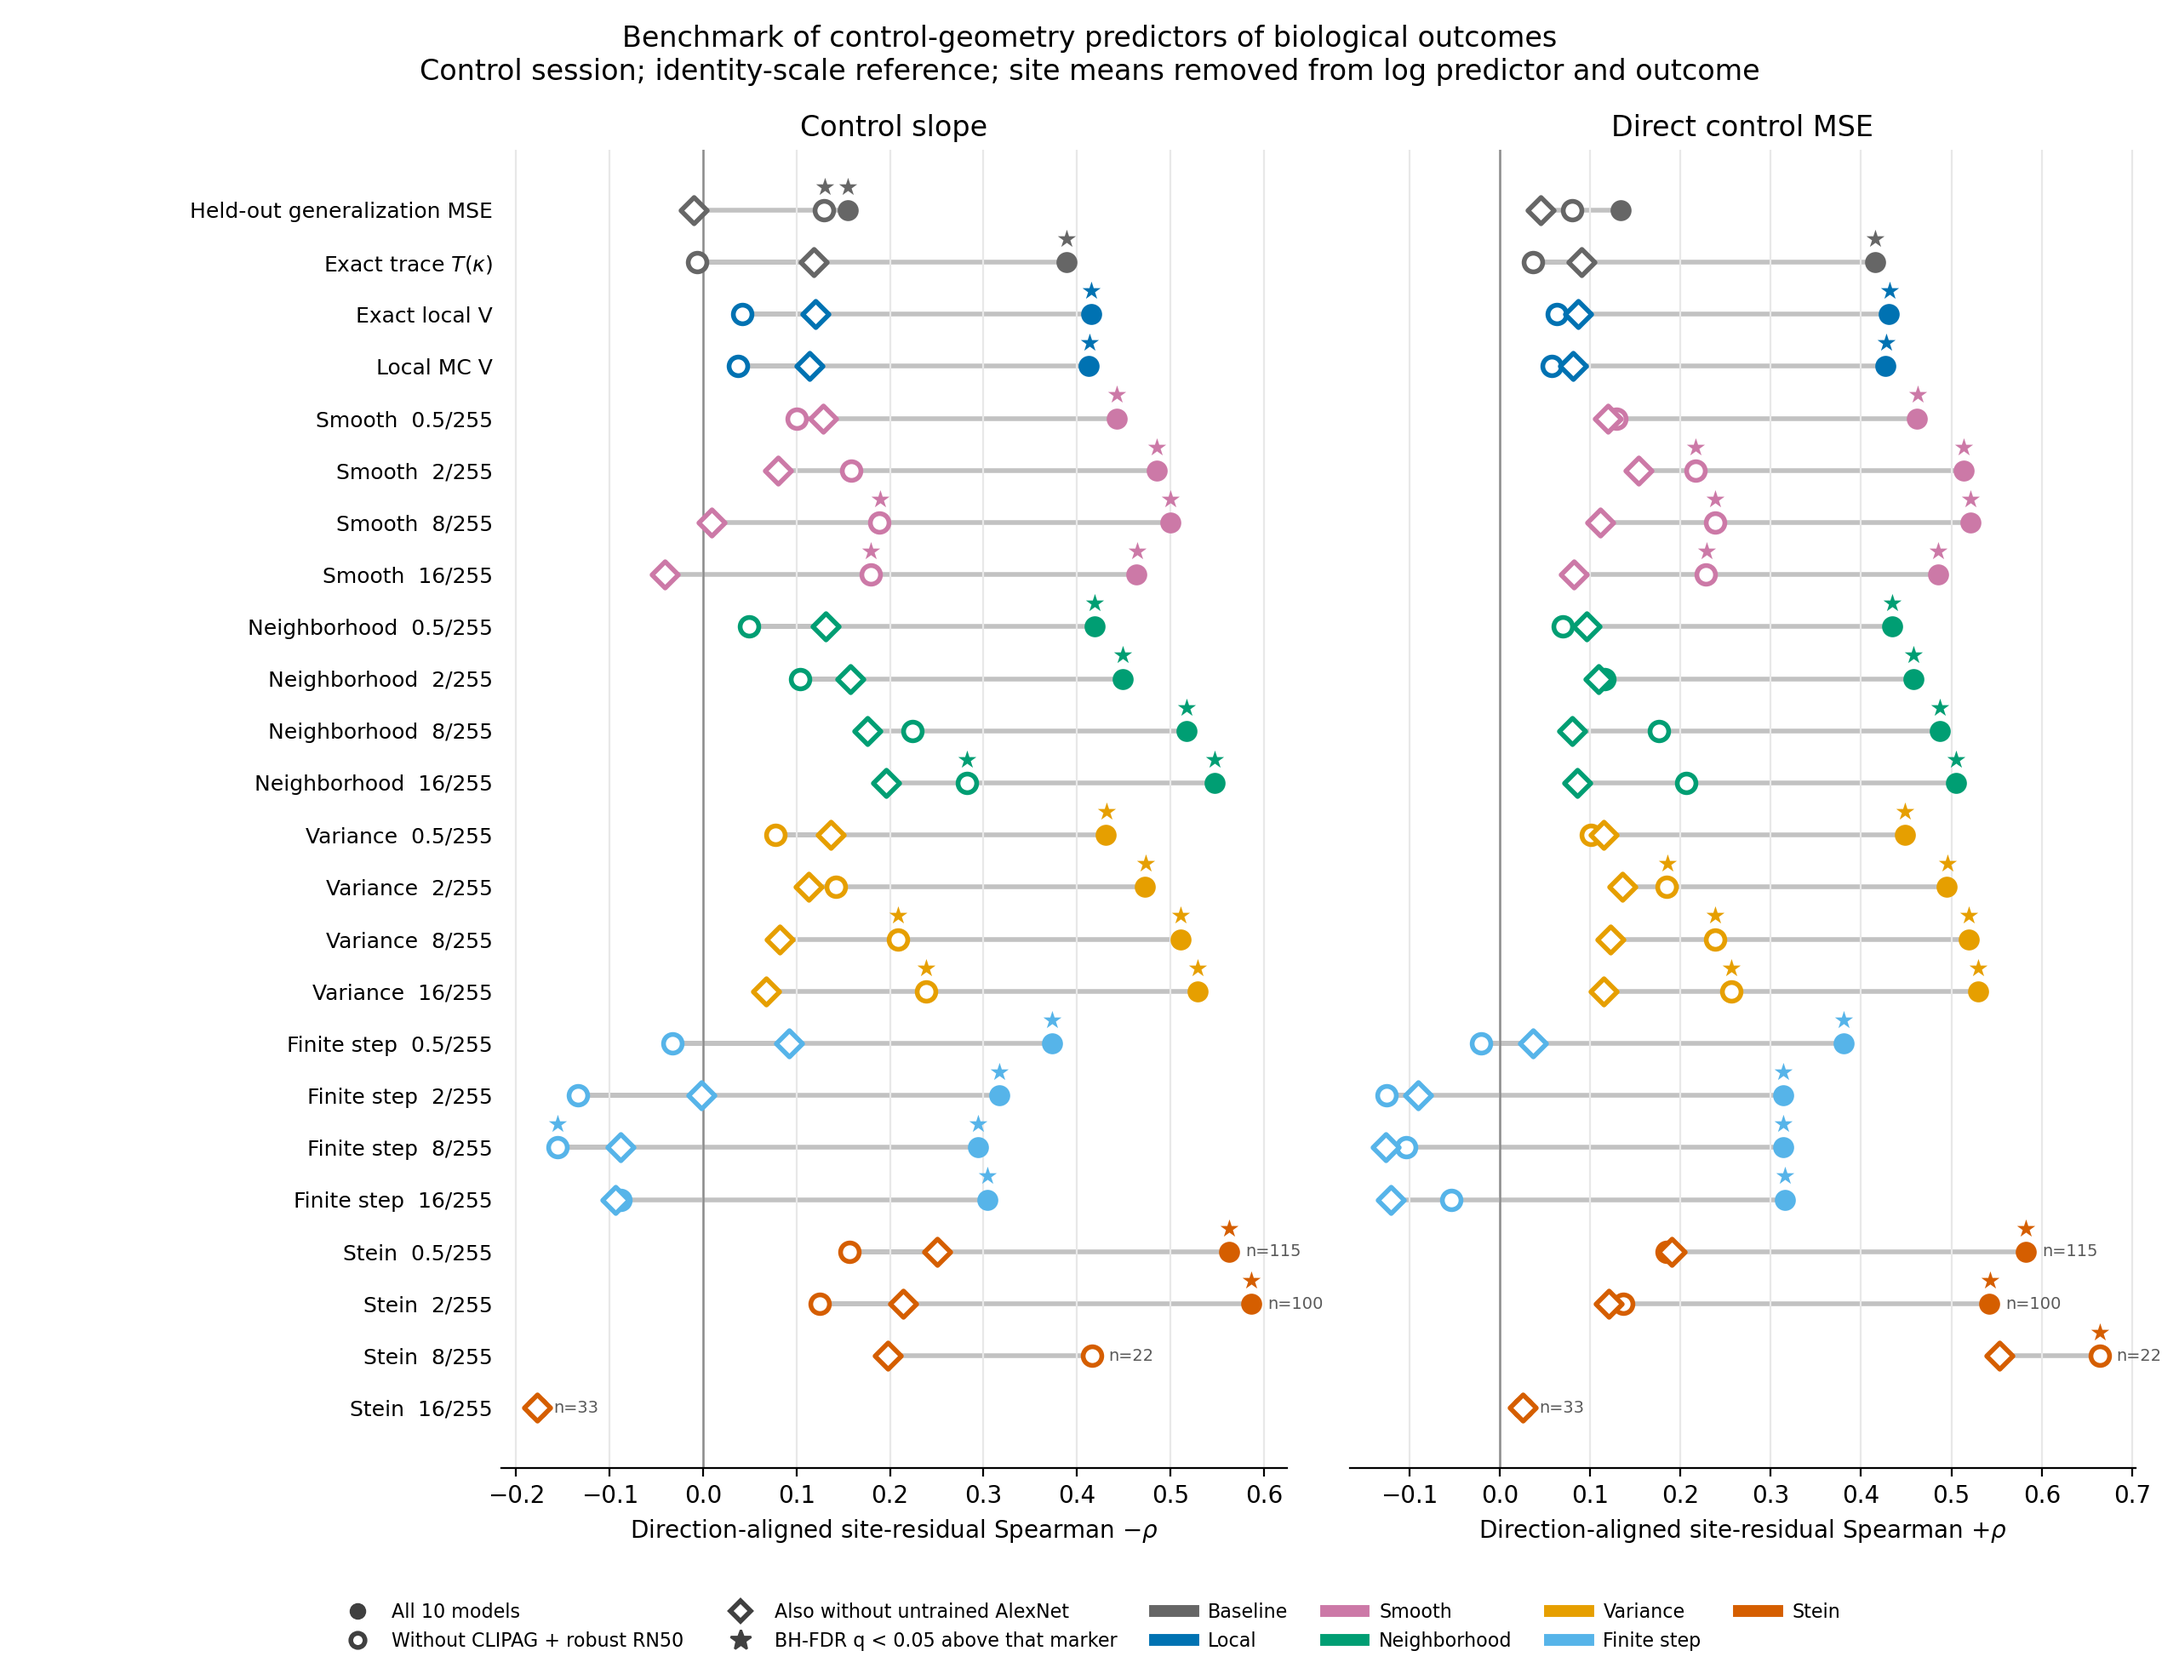
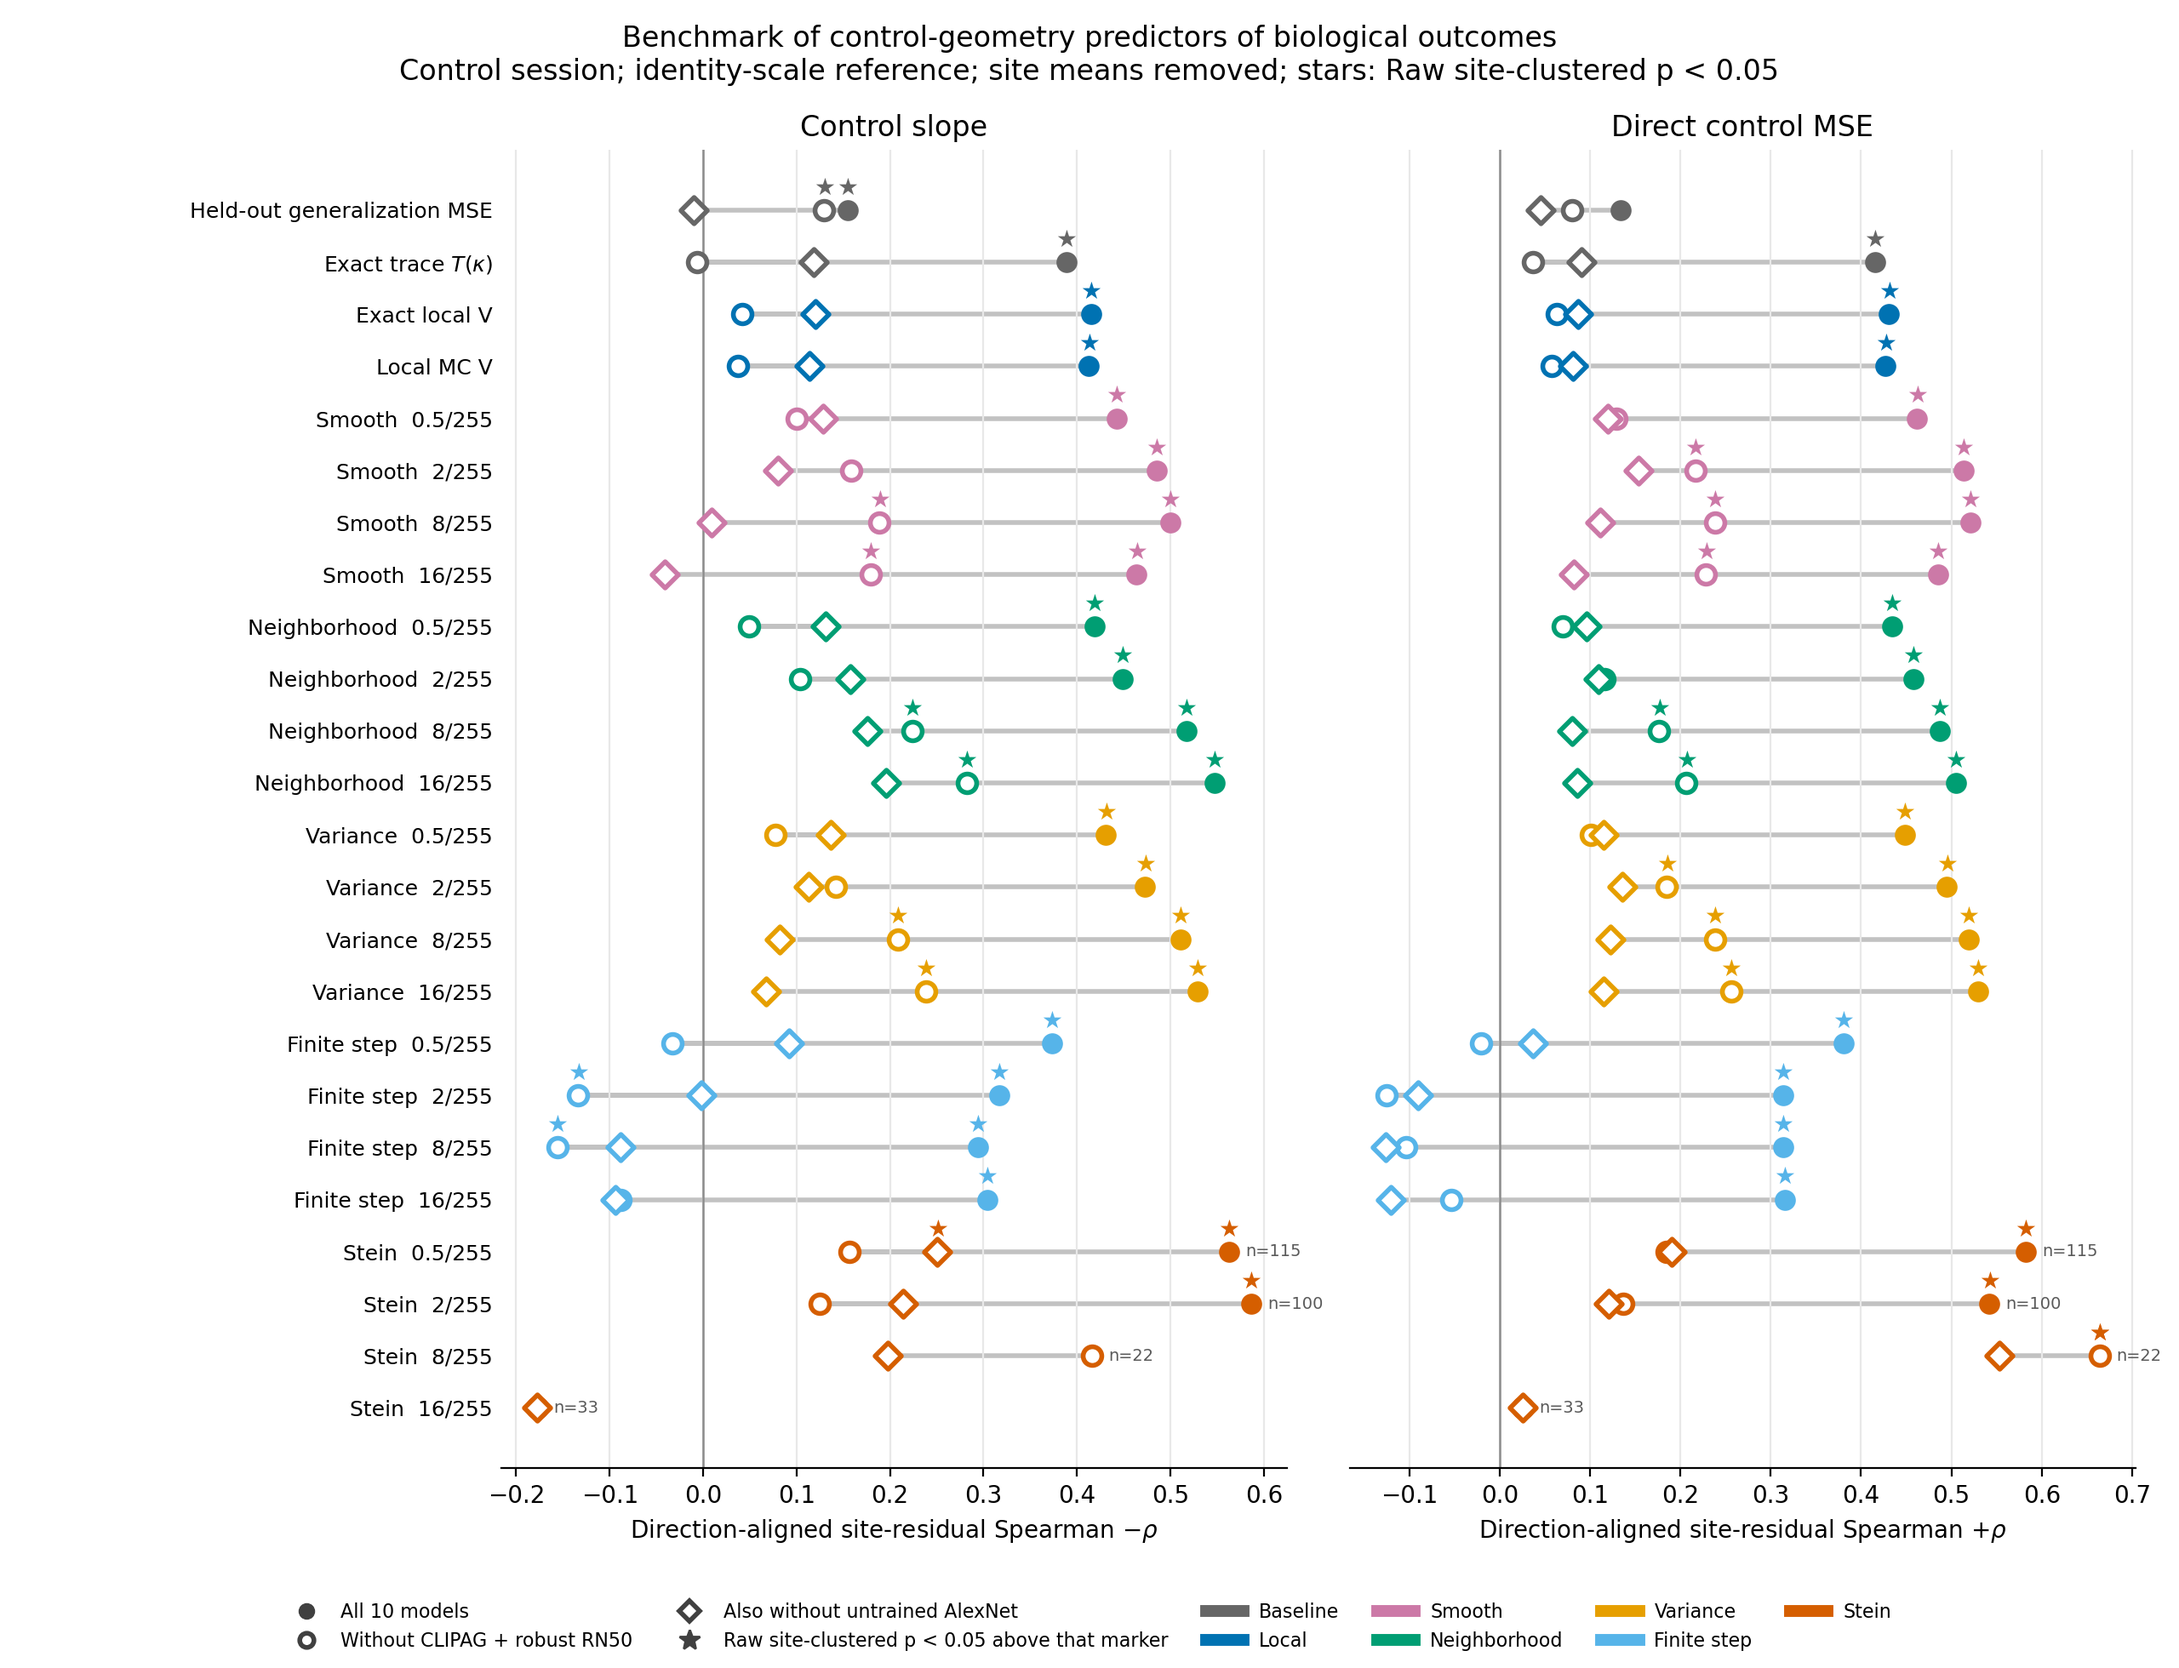
Separate raw-p and FDR benchmark figures

Changed region(s): [[0.125, 0.9648, 0.8438, 0.9959], [0.1875, 0.0311, 0.8125, 0.0622]]

diff --git a/explorations/nonlinear_control/analyze_site_centered_effects.py b/explorations/nonlinear_control/analyze_site_centered_effects.py
@@ -146,7 +146,11 @@ def level_plot(results,method,filename):
     fig.tight_layout();fig.savefig(FIGURE/filename,dpi=180);plt.close(fig)
 
 
-def predictor_benchmark_plot(results,endpoint,filename):
+def predictor_benchmark_plot(results,endpoint,filename,significance='raw'):
+    assert significance in {'raw','fdr'}
+    significance_column='cluster_p' if significance=='raw' else 'cluster_q_bh'
+    significance_label=('Raw site-clustered p < 0.05' if significance=='raw'
+                        else 'BH-FDR q < 0.05 across 24 predictors')
     d=results[results.endpoint==endpoint].copy()
     meta=(d[['predictor_id','label','group','display_order']].drop_duplicates()
           .sort_values('display_order'))
@@ -175,7 +179,7 @@ def predictor_benchmark_plot(results,endpoint,filename):
             # BH correction within this endpoint/outcome/subset panel.
             for xvalue,subset in [(xa,'all_models'),(xr,'without_robust'),
                                   (xt,'without_robust_and_untrained')]:
-                if pair.loc[subset,'cluster_q_bh'] < .05:
+                if pair.loc[subset,significance_column] < .05:
                     ax.text(xvalue,yi+.20,'★',color=color,ha='center',va='bottom',
                             fontsize=10,zorder=6)
             conventional=pair.loc['without_robust_and_untrained']
@@ -195,14 +199,14 @@ def predictor_benchmark_plot(results,endpoint,filename):
              plt.Line2D([],[],marker='D',linestyle='',markerfacecolor='white',markeredgewidth=2,
                         color='.25',label='Also without untrained AlexNet'),
              plt.Line2D([],[],marker='*',linestyle='',color='.25',markersize=9,
-                        label='BH-FDR q < 0.05 above that marker')]
+                        label=significance_label+' above that marker')]
     group_handles=[plt.Line2D([],[],color=METHOD_COLORS[g],lw=5,label=l) for g,l in
                    [('baseline','Baseline'),('local','Local'),('smooth','Smooth'),
                     ('neighborhood','Neighborhood'),('variance','Variance'),
                     ('step','Finite step'),('stein','Stein')]]
     fig.legend(handles=handles+group_handles,ncol=6,loc='lower center',frameon=False,fontsize=8)
     fig.suptitle('Benchmark of control-geometry predictors of biological outcomes\n'
-                 f'{d.endpoint_label.iloc[0]}; site means removed from log predictor and outcome',y=.985)
+                 f'{d.endpoint_label.iloc[0]}; site means removed; stars: {significance_label}',y=.985)
     fig.subplots_adjust(left=.23,right=.98,top=.91,bottom=.12,wspace=.08)
     fig.savefig(FIGURE/filename,dpi=200)
     plt.close(fig)
@@ -245,11 +249,14 @@ def main():
     benchmark=build_benchmark_table(data)
     benchmark.to_csv(TABLE/'predictor_benchmark_site_centered.csv',index=False)
     predictor_benchmark_plot(benchmark,'control_session_anchor_affine',
-                             'site_centered_predictor_benchmark_control_session.png')
+                             'site_centered_predictor_benchmark_control_session.png',significance='raw')
+    predictor_benchmark_plot(benchmark,'control_session_anchor_affine',
+                             'site_centered_predictor_benchmark_control_session_fdr.png',significance='fdr')
     predictor_benchmark_plot(benchmark,'control_session_identity_reference',
-                             'site_centered_predictor_benchmark_control_session_identity_reference.png')
+                             'site_centered_predictor_benchmark_control_session_identity_reference.png',
+                             significance='raw')
     predictor_benchmark_plot(benchmark,'encoding_session',
-                             'site_centered_predictor_benchmark_encoding_session.png')
+                             'site_centered_predictor_benchmark_encoding_session.png',significance='raw')
     print(results[(results.subset=='without_robust')&(results.method=='smooth')&
                   results.outcome.isin(['control_slope','control_mse'])].to_string(index=False))
 

diff --git a/tables/nonlinear_control/biological_validation/PREDICTOR_BENCHMARK.md b/tables/nonlinear_control/biological_validation/PREDICTOR_BENCHMARK.md
@@ -30,9 +30,11 @@ Each endpoint benchmark contains 24 predictors:
 The figures show Spearman correlation because model rankings are the primary
 question and the predictors span very different scales. The CSV also stores
 Pearson correlation and a linear standardized coefficient with site-clustered
-standard error. A filled five-point star directly above any filled circle,
-open circle or open diamond marks Benjamini-Hochberg q < 0.05 for that marker's model subset. It
-does not represent a clustered significance test of Spearman correlation.
+standard error. In the default exploratory figures, a filled five-point star
+directly above a marker denotes an unadjusted site-clustered linear-effect
+`p < 0.05` for that model subset. The separately named `_fdr` figure instead
+uses Benjamini-Hochberg `q < 0.05` across the 24 predictors in that panel. The
+stars do not represent a clustered significance test of Spearman correlation.
 
 The Stein estimates at large noise can be zero or negative and therefore
 cannot enter the log analysis. Their actual effective sample sizes are printed
@@ -40,7 +42,9 @@ next to the markers. These small-n correlations are unstable and should not be
 ranked directly against the full-coverage subset estimates.
 
 `site_centered_predictor_benchmark_control_session.png` is the calibrated
-default. `site_centered_predictor_benchmark_control_session_identity_reference.png`
+default with raw-p stars. `site_centered_predictor_benchmark_control_session_fdr.png`
+is the identical benchmark with BH-FDR stars.
+`site_centered_predictor_benchmark_control_session_identity_reference.png`
 preserves the previous direct identity-scale comparison. The encoding-session
 figure remains an explicitly labeled identity reference because the
 encoding-to-control map targets control-session response units.

diff --git a/tables/nonlinear_control/biological_validation/SYNOPSIS.md b/tables/nonlinear_control/biological_validation/SYNOPSIS.md
@@ -122,6 +122,10 @@ to the linear site-residual coefficient; they are not p values for Spearman's
 rho. Stein rows retain their actual positive-V sample counts because the
 large-noise estimators can be nonpositive.
 
+The default benchmark figures mark unadjusted site-clustered `p < 0.05`. The
+separate `_fdr` control-session figure marks BH-FDR `q < 0.05` across the 24
+predictors. Both statistics remain in the plot-ready CSV.
+
 The `control_session_anchor_affine` rows are the default benchmark: outcomes
 are `control_anchor_affine_slope/MSE`, heldout error is measured after the
 training-anchor site map, and every V uses
